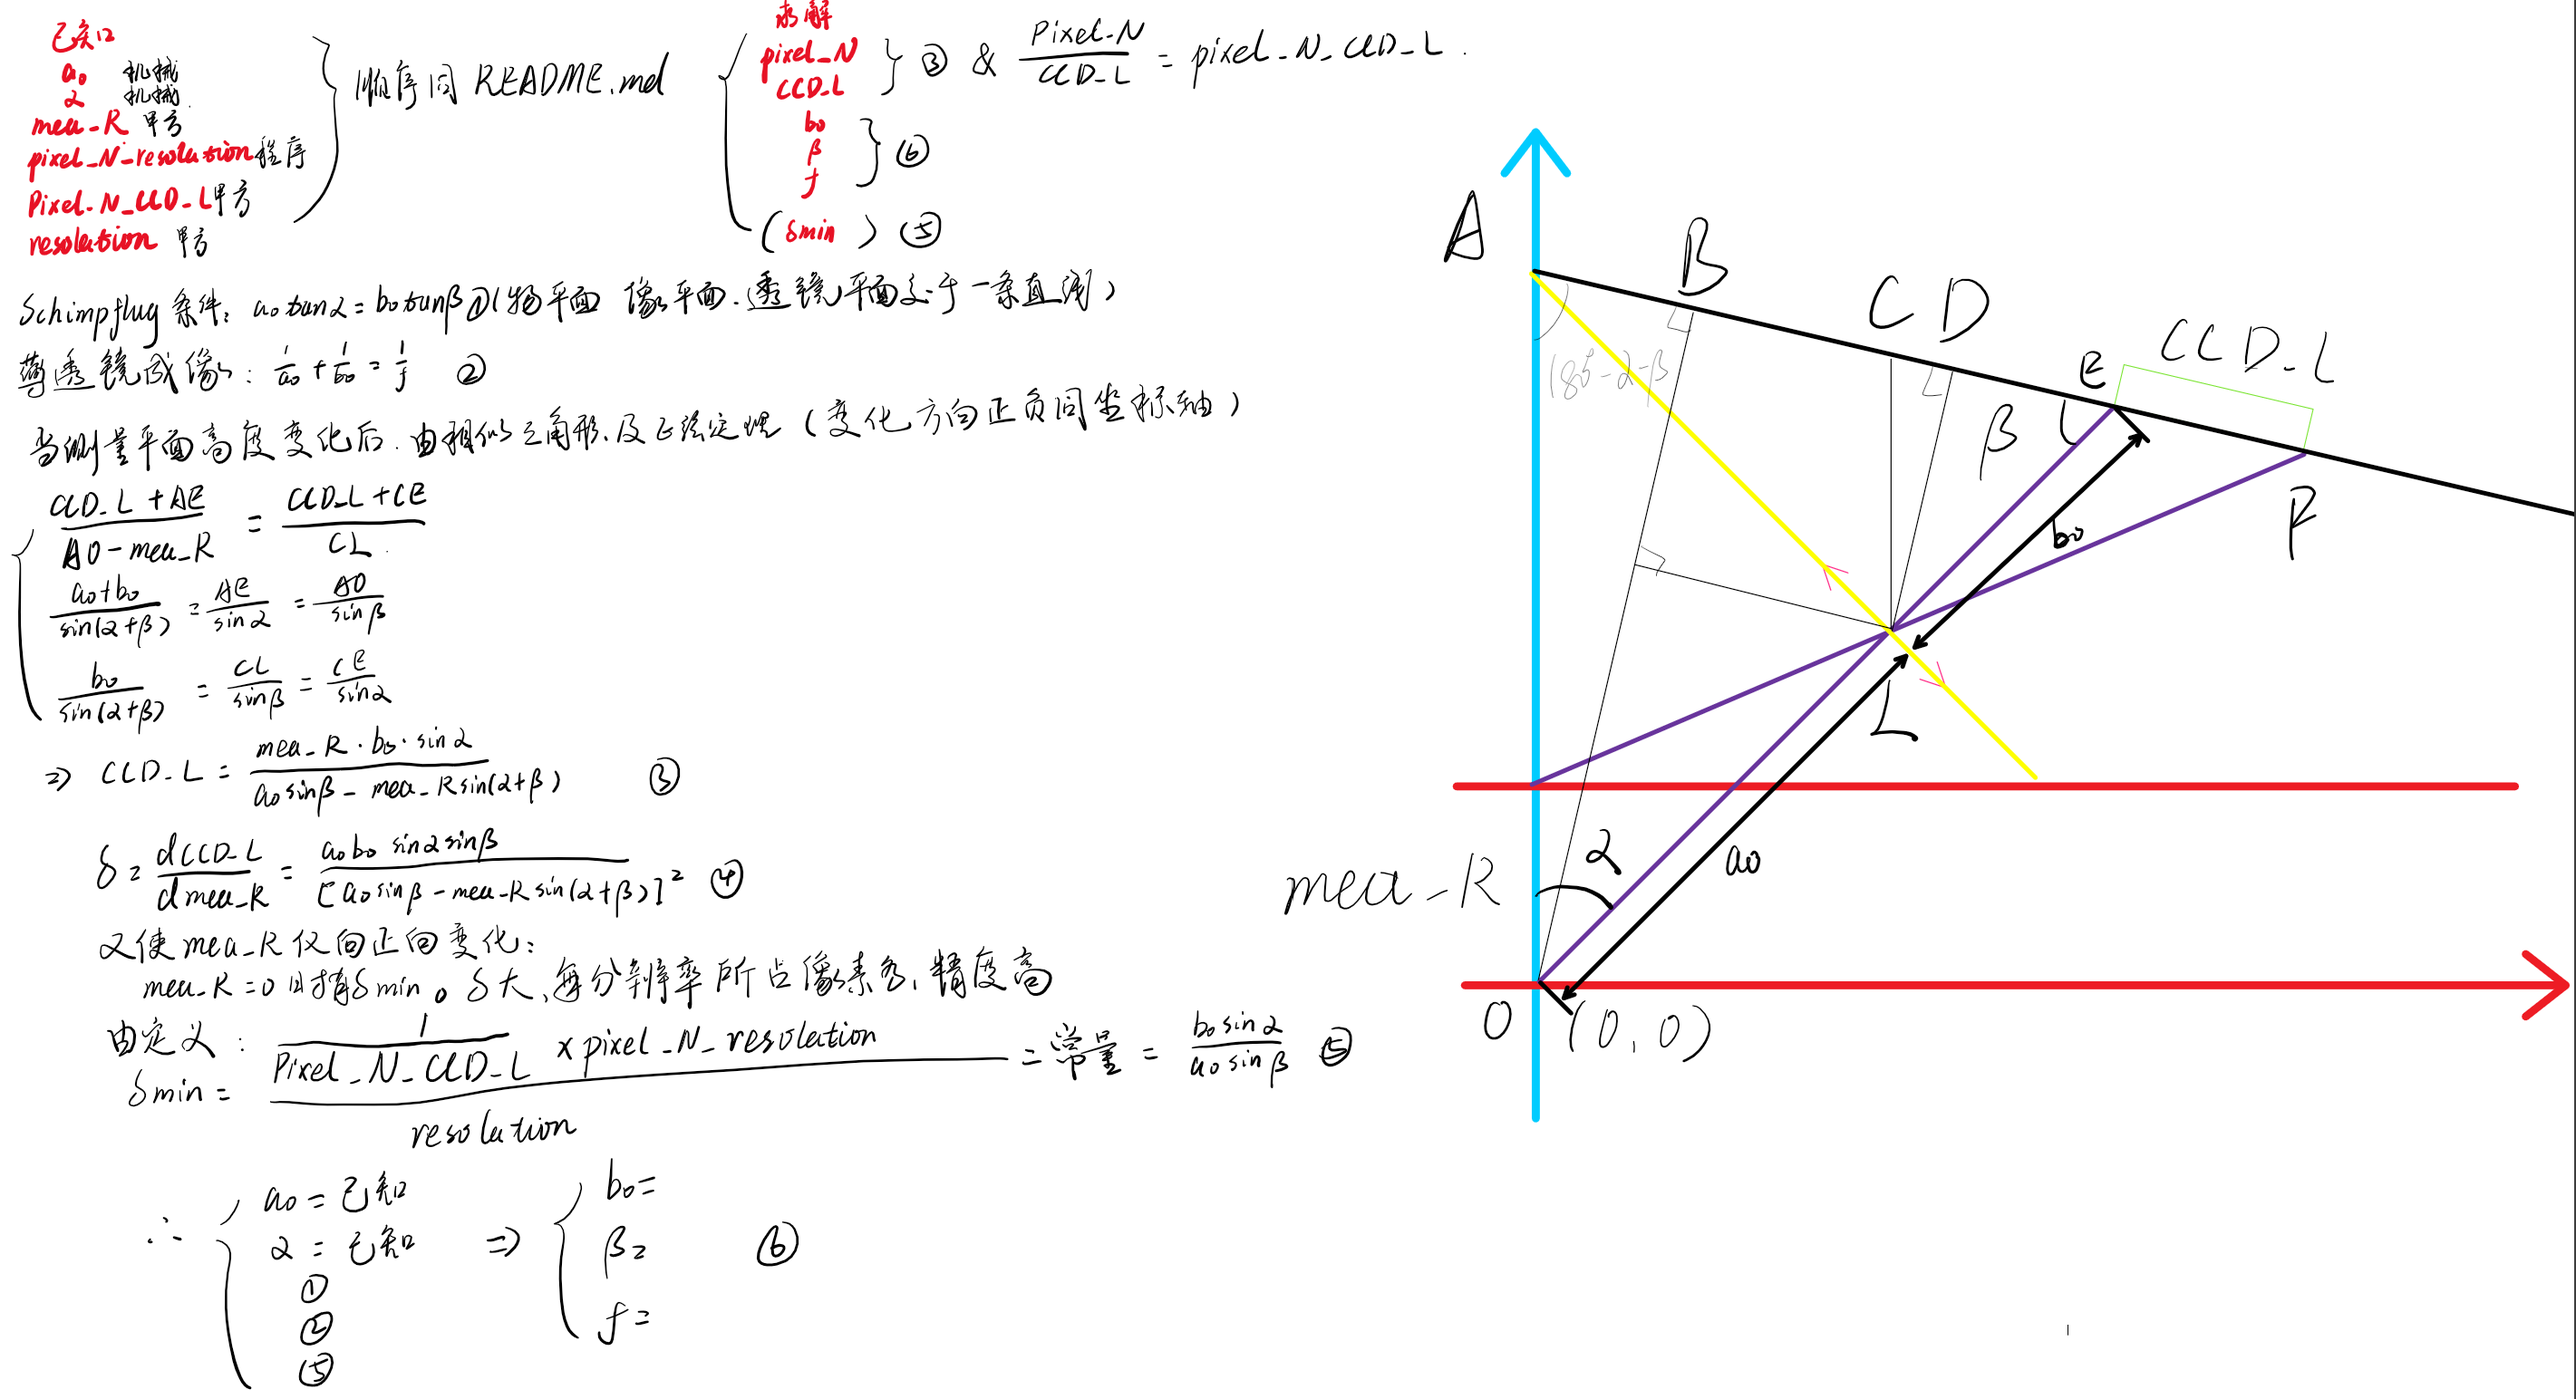
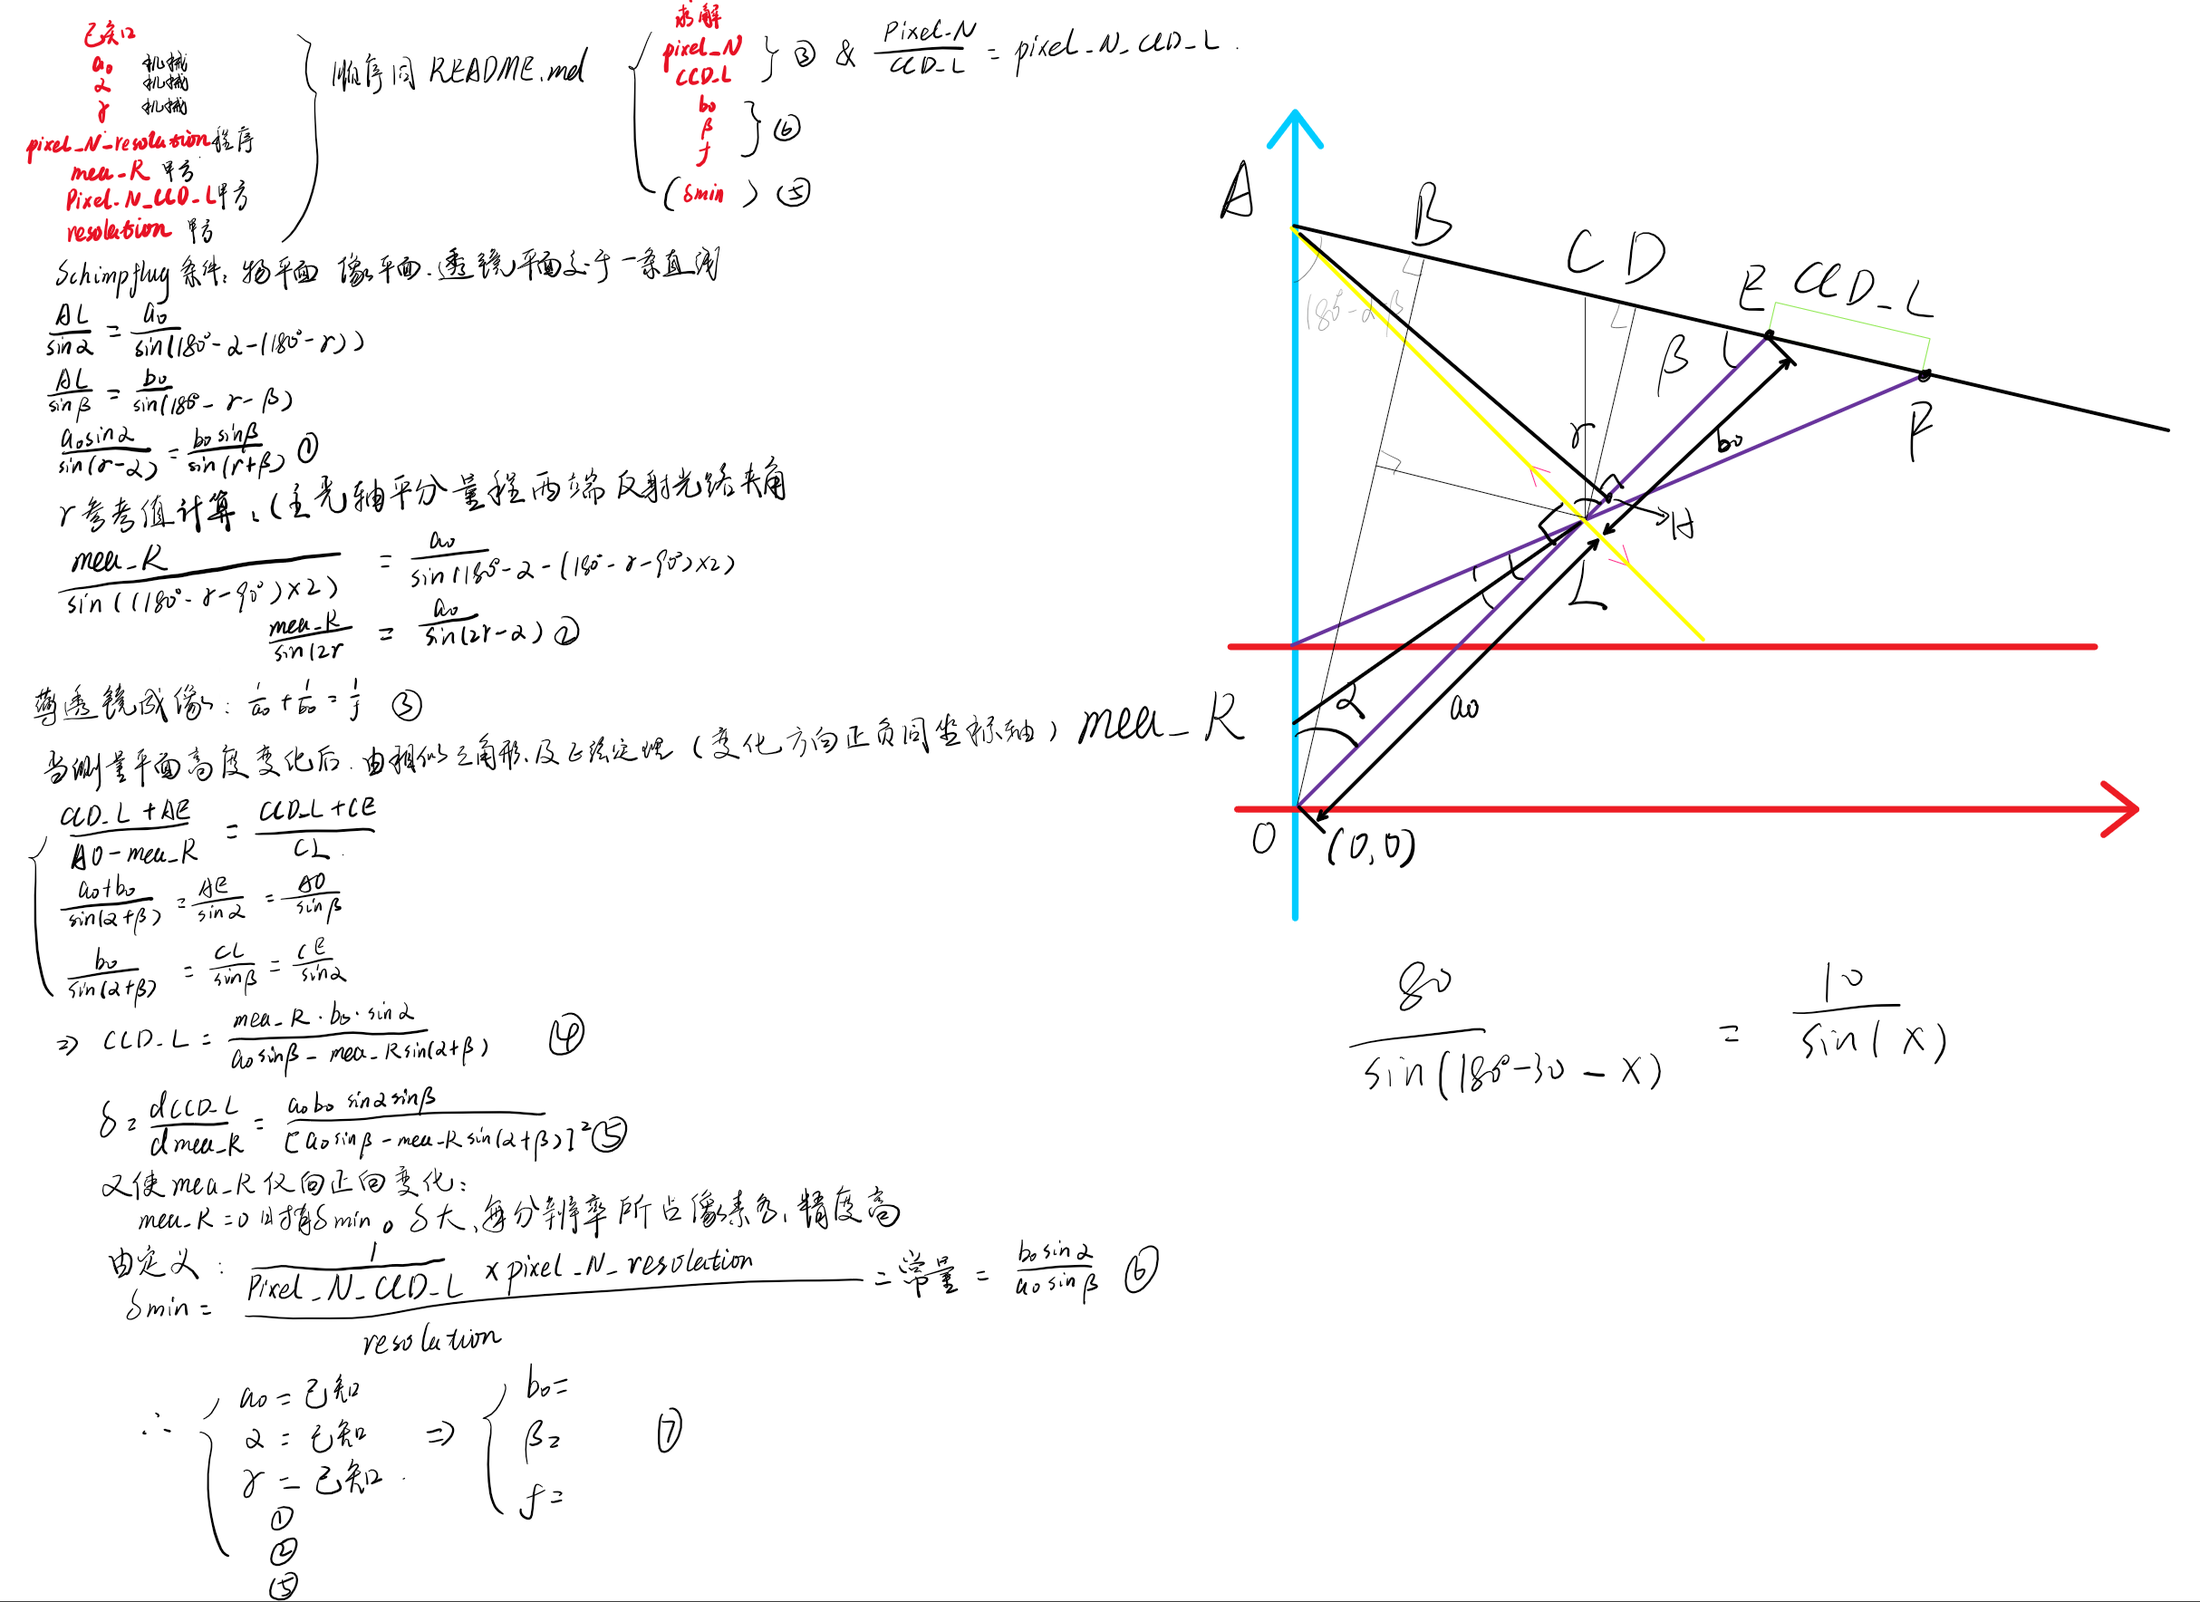
修改了README.md

diff --git a/draft.py b/draft.py
@@ -59,25 +59,16 @@ sli_tar_resolation = Slider(
 
 
 def f_pregamma(x):
-    # print(sli_a_0.val)
-    # print(sli_alpha.val)
-    # print(sli_tar_mea_range.val)
     return sli_tar_mea_range.val / np.sin(x) - sli_a_0.val / np.sin(
         (180 - sli_alpha.val) / 180 * np.pi - x
     )
 
 
 def calc_pregamma():
-    # out = root(f_gamma, np.pi / 2).x
-    # for i in out:
-    #     print(i)
-    # print(root(f_pregamma, np.pi / 16).x / np.pi * 180)
     return root(f_pregamma, np.pi / 16).x
 
 
-pregamma = calc_pregamma()
-# print(pregamma)
-# print(pregamma / np.pi * 180)
+# pregamma = calc_pregamma()
 
 
 def calc_gamma():
@@ -86,7 +77,7 @@ def calc_gamma():
 
 gamma = calc_gamma().item()
 
-sli_gamma = Slider(ax_gamma, "gamma", 0, 90, valinit=90)
+sli_gamma = Slider(ax_gamma, "gamma", 0, 90, valinit=gamma / np.pi * 180)
 
 
 def update(val):
@@ -124,7 +115,6 @@ reset_button.on_clicked(reset)
 
 
 def calc_theta_min(ccd_l_pixel_num, min_pixel_num_resolation, tar_resolation):
-    print(1 / ccd_l_pixel_num * min_pixel_num_resolation / tar_resolation)
     return 1 / ccd_l_pixel_num * min_pixel_num_resolation / tar_resolation
 
 

diff --git a/README.md b/README.md
@@ -6,14 +6,15 @@
 
 ![手稿](手稿.png)
 
-|         输入参数         |                          备注                           |
-| :----------------------: | :-----------------------------------------------------: |
-|           a_0            | a_0长度：初始位置激光器在目标物上照射点到透镜中心点长度 |
-|          alpha           |     alpha角度：成像透镜光轴与被测表面法线之间的夹角     |
-|      tar_mea_range       |                      目标测量范围                       |
-| min_pixel_num_resolation |                  最小像素点个数/分辨率                  |
-|     pixel_num_CCD_L      |     CCD像素点个数/像CCD有效长度，一般为CCD像素宽度      |
-|      tar_resolation      |                     目标测量分辨率                      |
+|         输入参数         |                                 备注                                  |
+| :----------------------: | :-------------------------------------------------------------------: |
+|           a_0            |        a_0长度：初始位置激光器在目标物上照射点到透镜中心点长度        |
+|          alpha           |            alpha角度：成像透镜光轴与被测表面法线之间的夹角            |
+|          gamma           | gamma角度：初始位置下，透镜平面在光路平面投影直线与反射光线之间的夹角 |
+| min_pixel_num_resolation |                         最小像素点个数/分辨率                         |
+|      tar_mea_range       |                             目标测量范围                              |
+|     pixel_num_CCD_L      |            CCD像素点个数/像CCD有效长度，一般为CCD像素宽度             |
+|      tar_resolation      |                            目标测量分辨率                             |
 
 |     输出参数      |                              备注                              |
 | :---------------: | :------------------------------------------------------------: |
